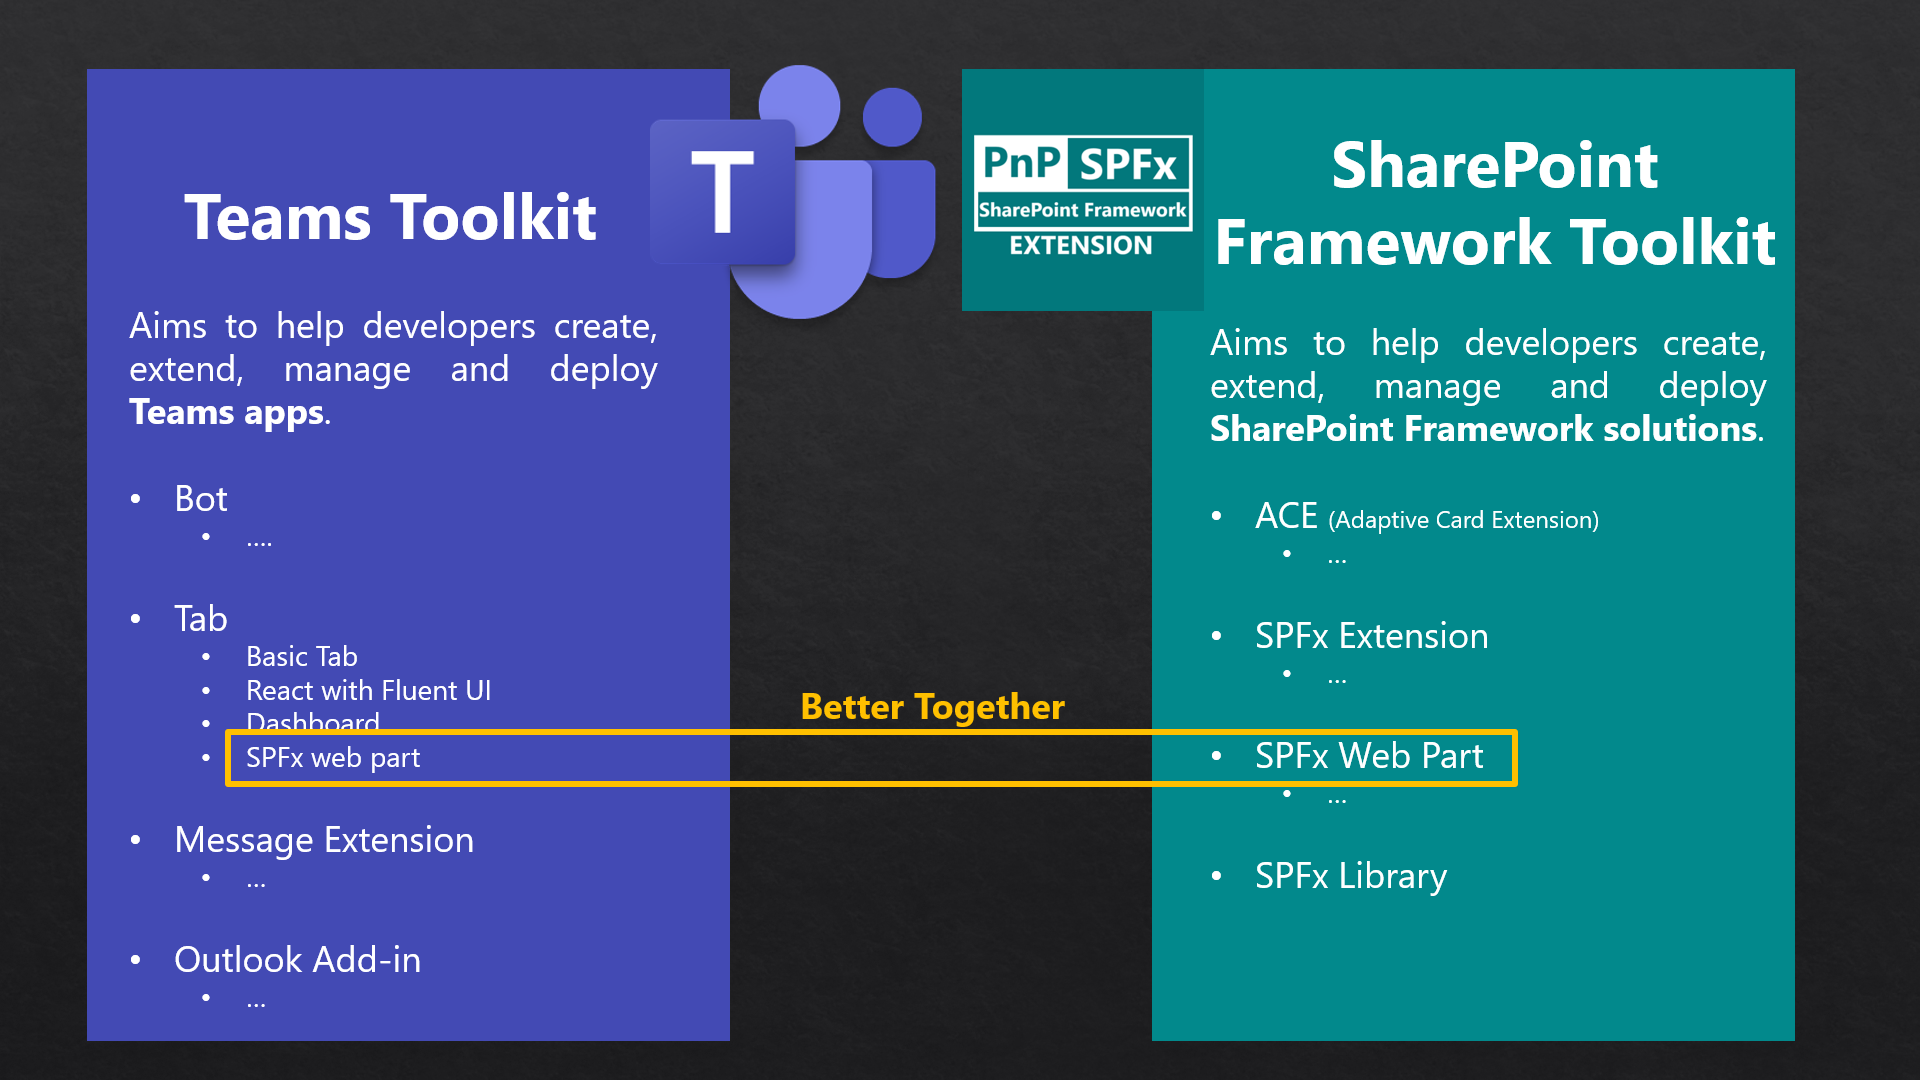
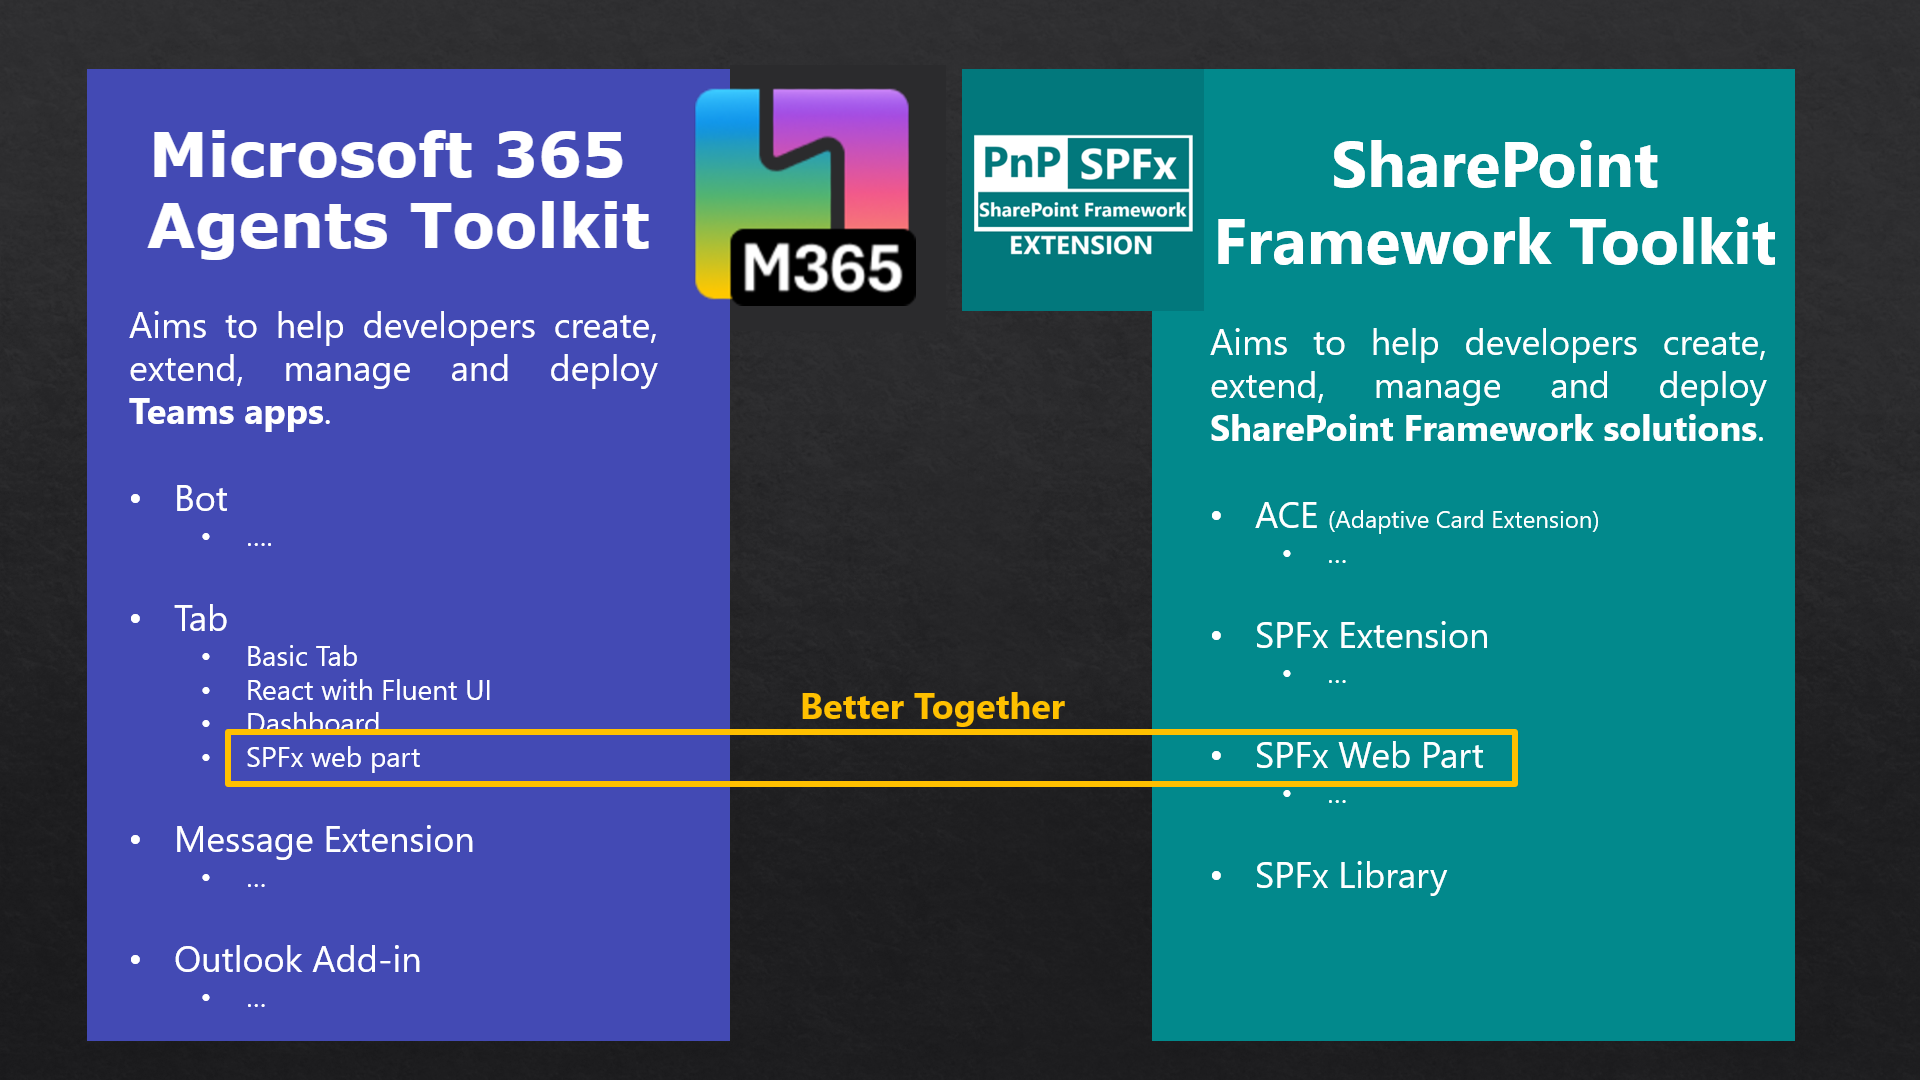
Rename Teams Toolkit to Microsoft 365 Agents Toolkit and update related integrations

Changed region(s): [[0.0625, 0.0611, 0.5, 0.3056]]

diff --git a/src/services/actions/CliActions.ts b/src/services/actions/CliActions.ts
@@ -10,7 +10,7 @@ import { basename, join } from 'path';
 import { EnvironmentInformation } from '../dataType/EnvironmentInformation';
 import { AuthProvider } from '../../providers/AuthProvider';
 import { CommandOutput } from '@pnp/cli-microsoft365';
-import { TeamsToolkitIntegration } from '../dataType/TeamsToolkitIntegration';
+import { M365AgentsToolkitIntegration } from '../dataType/M365AgentsToolkitIntegration';
 import { PnPWebview } from '../../webview/PnPWebview';
 import { parseYoRc } from '../../utils/parseYoRc';
 import { parseCliCommand } from '../../utils/parseCliCommand';
@@ -518,7 +518,7 @@ export class CliActions {
     if (wsFolder) {
       let fsPath = wsFolder.uri.fsPath;
 
-      if (TeamsToolkitIntegration.isTeamsToolkitProject) {
+      if (M365AgentsToolkitIntegration.isM365AgentsToolkitProject) {
         fsPath = join(fsPath, 'src');
       }
 
@@ -662,7 +662,7 @@ export class CliActions {
     if (wsFolder) {
       let fsPath = wsFolder.uri.fsPath;
 
-      if (TeamsToolkitIntegration.isTeamsToolkitProject) {
+      if (M365AgentsToolkitIntegration.isM365AgentsToolkitProject) {
         fsPath = join(fsPath, 'src');
       }
 
@@ -703,7 +703,7 @@ export class CliActions {
     if (wsFolder) {
       let fsPath = wsFolder.uri.fsPath;
 
-      if (TeamsToolkitIntegration.isTeamsToolkitProject) {
+      if (M365AgentsToolkitIntegration.isM365AgentsToolkitProject) {
         fsPath = join(fsPath, 'src');
       }
 
@@ -762,7 +762,7 @@ export class CliActions {
    * Grants API permissions for the current project.
    * This method changes the current working directory to the root of the project,
    * and then executes the command to grant API permissions.
-   * If the project is a Teams Toolkit project, the source directory is set to 'src'.
+   * If the project is a Microsoft 365 Agents Toolkit project, the source directory is set to 'src'.
    * Displays progress notifications during the execution.
    * @returns A promise that resolves when the API permissions are granted.
    */
@@ -780,7 +780,7 @@ export class CliActions {
     if (wsFolder) {
       let fsPath = wsFolder.uri.fsPath;
 
-      if (TeamsToolkitIntegration.isTeamsToolkitProject) {
+      if (M365AgentsToolkitIntegration.isM365AgentsToolkitProject) {
         fsPath = join(fsPath, 'src');
       }
 
@@ -826,7 +826,7 @@ export class CliActions {
   /**
    * Validates the current project.
    * This method changes the current working directory to the root of the project and performs
-   * validation on the project. If the project is a Teams Toolkit project, it changes the working
+   * validation on the project. If the project is a Microsoft 365 Agents Toolkit project, it changes the working
    * directory to the 'src' folder before performing validation.
    * @returns A promise that resolves when the validation is complete.
    */
@@ -836,7 +836,7 @@ export class CliActions {
     if (wsFolder) {
       let fsPath = wsFolder.uri.fsPath;
 
-      if (TeamsToolkitIntegration.isTeamsToolkitProject) {
+      if (M365AgentsToolkitIntegration.isM365AgentsToolkitProject) {
         fsPath = join(fsPath, 'src');
       }
 
@@ -988,7 +988,7 @@ export class CliActions {
 
     let savePath = wsFolder?.uri.fsPath;
 
-    if (savePath && TeamsToolkitIntegration.isTeamsToolkitProject) {
+    if (savePath && M365AgentsToolkitIntegration.isM365AgentsToolkitProject) {
       savePath = join(savePath, 'src');
     }
 

diff --git a/src/panels/CommandPanel.ts b/src/panels/CommandPanel.ts
@@ -6,7 +6,7 @@ import { AuthProvider, M365AuthenticationSession } from '../providers/AuthProvid
 import { CliActions } from '../services/actions/CliActions';
 import { DebuggerCheck } from '../services/check/DebuggerCheck';
 import { EnvironmentInformation } from '../services/dataType/EnvironmentInformation';
-import { TeamsToolkitIntegration } from '../services/dataType/TeamsToolkitIntegration';
+import { M365AgentsToolkitIntegration } from '../services/dataType/M365AgentsToolkitIntegration';
 import { ProjectInformation } from '../services/dataType/ProjectInformation';
 import { AdaptiveCardCheck } from '../services/check/AdaptiveCardCheck';
 import { Subscription } from '../models';
@@ -39,12 +39,12 @@ export class CommandPanel {
 
   private static async init() {
     try {
-      let isTeamsToolkitProject = false;
+      let isM365AgentsToolkitProject = false;
       let files = await workspace.findFiles('.yo-rc.json', '**/node_modules/**');
 
       if (files.length <= 0) {
         files = await workspace.findFiles('src/.yo-rc.json', '**/node_modules/**');
-        isTeamsToolkitProject = true;
+        isM365AgentsToolkitProject = true;
       }
 
       if (files.length <= 0) {
@@ -69,7 +69,7 @@ export class CommandPanel {
       commands.executeCommand('setContext', ContextKeys.showWelcome, false);
 
       ProjectInformation.isSPFxProject = true;
-      TeamsToolkitIntegration.isTeamsToolkitProject = isTeamsToolkitProject;
+      M365AgentsToolkitIntegration.isM365AgentsToolkitProject = isM365AgentsToolkitProject;
 
       AdaptiveCardCheck.validateACEComponent();
       CommandPanel.registerTreeView();
@@ -334,7 +334,7 @@ export class CommandPanel {
       ]),
       new ActionTreeItem('Resources & Tooling', '', undefined, TreeItemCollapsibleState.Expanded, undefined, undefined, undefined, [
         new ActionTreeItem('Microsoft Graph Explorer', '', { name: 'globe', custom: false }, undefined, 'vscode.open', Uri.parse('https://developer.microsoft.com/en-us/graph/graph-explorer')),
-        new ActionTreeItem('Teams Toolkit', '', { name: 'tools', custom: false }, undefined, 'vscode.open', Uri.parse('https://marketplace.visualstudio.com/items?itemName=TeamsDevApp.ms-teams-vscode-extension')),
+        new ActionTreeItem('Microsoft 365 Agents Toolkit', '', { name: 'tools', custom: false }, undefined, 'vscode.open', Uri.parse('https://marketplace.visualstudio.com/items?itemName=TeamsDevApp.ms-teams-vscode-extension')),
         new ActionTreeItem('Adaptive Card Previewer', '', { name: 'tools', custom: false }, undefined, 'vscode.open', Uri.parse('https://marketplace.visualstudio.com/items?itemName=TeamsDevApp.vscode-adaptive-cards')),
         new ActionTreeItem('SharePoint Embedded', '', { name: 'tools', custom: false }, undefined, 'vscode.open', Uri.parse('https://marketplace.visualstudio.com/items?itemName=SharepointEmbedded.ms-sharepoint-embedded-vscode-extension')),
         new ActionTreeItem('Adaptive Card Designer', '', { name: 'globe', custom: false }, undefined, 'vscode.open', Uri.parse('https://adaptivecards.io/designer/')),

diff --git a/src/utils/increaseVersion.ts b/src/utils/increaseVersion.ts
@@ -1,7 +1,7 @@
 import { readFileSync, writeFileSync } from 'fs';
 import { join } from 'path';
 import { workspace } from 'vscode';
-import { TeamsToolkitIntegration } from '../services/dataType/TeamsToolkitIntegration';
+import { M365AgentsToolkitIntegration } from '../services/dataType/M365AgentsToolkitIntegration';
 
 
 export async function increaseVersion(versionType: 'major' | 'minor' | 'patch') {
@@ -11,7 +11,7 @@ export async function increaseVersion(versionType: 'major' | 'minor' | 'patch') 
   }
 
   let packageSolutionFiles = [];
-  if (TeamsToolkitIntegration.isTeamsToolkitProject) {
+  if (M365AgentsToolkitIntegration.isM365AgentsToolkitProject) {
     packageSolutionFiles = await workspace.findFiles('src/config/package-solution.json', '**/node_modules/**');
   } else {
     packageSolutionFiles = await workspace.findFiles('config/package-solution.json', '**/node_modules/**');
@@ -30,7 +30,7 @@ export async function increaseVersion(versionType: 'major' | 'minor' | 'patch') 
   writeFileSync(packageJsonPath, JSON.stringify(packageJson, null, 2));
   writeFileSync(packageSolutionPath, JSON.stringify(packageSolution, null, 2));
 
-  if (TeamsToolkitIntegration.isTeamsToolkitProject) {
+  if (M365AgentsToolkitIntegration.isM365AgentsToolkitProject) {
     const packageJsonSrcPath = join(wsFolder.uri.fsPath, 'src', 'package.json');
     const packageJsonSrc = JSON.parse(readFileSync(packageJsonPath, 'utf8'));
     packageJsonSrc.version = newVersion;

diff --git a/src/services/actions/Scaffolder.ts b/src/services/actions/Scaffolder.ts
@@ -14,7 +14,7 @@ import { CliExecuter } from '../executeWrappers/CliCommandExecuter';
 import { getExtensionSettings, getPlatform } from '../../utils';
 import { PnPWebview } from '../../webview/PnPWebview';
 import { Executer } from '../executeWrappers/CommandExecuter';
-import { TeamsToolkitIntegration } from '../dataType/TeamsToolkitIntegration';
+import { M365AgentsToolkitIntegration } from '../dataType/M365AgentsToolkitIntegration';
 import { TerminalCommandExecuter } from '../executeWrappers/TerminalCommandExecuter';
 
 
@@ -276,7 +276,7 @@ export class Scaffolder {
           const wsFolder = await Folders.getWorkspaceFolder();
           let path = wsFolder?.uri.fsPath;
 
-          if (path && TeamsToolkitIntegration.isTeamsToolkitProject) {
+          if (path && M365AgentsToolkitIntegration.isM365AgentsToolkitProject) {
             path = join(path, 'src');
           }
 

diff --git a/src/services/executeWrappers/TerminalCommandExecuter.ts b/src/services/executeWrappers/TerminalCommandExecuter.ts
@@ -3,7 +3,7 @@ import { Commands, NodeVersionManagers } from '../../constants';
 import { Subscription } from '../../models';
 import { Extension } from '../dataType/Extension';
 import { getPlatform, getExtensionSettings } from '../../utils';
-import { TeamsToolkitIntegration } from '../dataType/TeamsToolkitIntegration';
+import { M365AgentsToolkitIntegration } from '../dataType/M365AgentsToolkitIntegration';
 import { Folders } from '../check/Folders';
 import { join } from 'path';
 import { ServeConfig } from '../../models/ServeConfig';
@@ -75,7 +75,7 @@ export class TerminalCommandExecuter {
     if (wsFolder) {
       let currentProjectPath = wsFolder.uri.fsPath;
 
-      if (TeamsToolkitIntegration.isTeamsToolkitProject) {
+      if (M365AgentsToolkitIntegration.isM365AgentsToolkitProject) {
         currentProjectPath = join(currentProjectPath, 'src');
       }
 

diff --git a/src/services/dataType/M365AgentsToolkitIntegration.ts b/src/services/dataType/M365AgentsToolkitIntegration.ts
@@ -1,0 +1,15 @@
+export class M365AgentsToolkitIntegration {
+  private static _isM365AgentsToolkitProject: boolean | undefined = undefined;
+
+  public static get isM365AgentsToolkitProject(): boolean | undefined {
+    return this._isM365AgentsToolkitProject;
+  }
+
+  public static set isM365AgentsToolkitProject(value: boolean | undefined) {
+    this._isM365AgentsToolkitProject = value;
+  }
+
+  public static reset() {
+    this._isM365AgentsToolkitProject = undefined;
+  }
+}

diff --git a/README.md b/README.md
@@ -285,11 +285,11 @@ Check it out in action 👇
 
 ![code snippets](./assets/images/code-snippets.gif)
 
-### 1⃣1⃣ Teams Toolkit Integration
+### 1⃣1⃣ Microsoft 365 Agents Toolkit Integration
 
-[Teams Toolkit](https://marketplace.visualstudio.com/items?itemName=TeamsDevApp.ms-teams-vscode-extension) is a widely used VS Code extension that aims to help you develop solutions that will allow you to extend Microsoft Teams. SharePoint Framework Toolkit aims to boost your productivity in SharePoint Framework solutions that may be used to extend SharePoint, Microsoft Teams, Microsoft Viva Connections, Outlook, and Microsoft365.com. Among many awesome functionalities, Teams Toolkit allows you to create a project to extend Teams Tab with SPFx project, and that’s where both of those extensions may cooperate.
+[Microsoft 365 Agents Toolkit](https://marketplace.visualstudio.com/items?itemName=TeamsDevApp.ms-teams-vscode-extension) is a widely used VS Code extension that aims to help you develop solutions that will allow you to extend Microsoft Teams. SharePoint Framework Toolkit aims to boost your productivity in SharePoint Framework solutions that may be used to extend SharePoint, Microsoft Teams, Microsoft Viva Connections, Outlook, and Microsoft365.com. Among many awesome functionalities, Microsoft 365 Agents Toolkit allows you to create a project to extend Teams Tab with SPFx project, and that’s where both of those extensions may cooperate.
 
-![Teams Toolkit integration](./assets/images/better-together.png)
+![Microsoft 365 Agents Toolkit integration](./assets/images/better-together.png)
 
 [Check out our docs for more details](https://github.com/pnp/vscode-viva/wiki/6-Teams-Toolkit-Integration)
 
